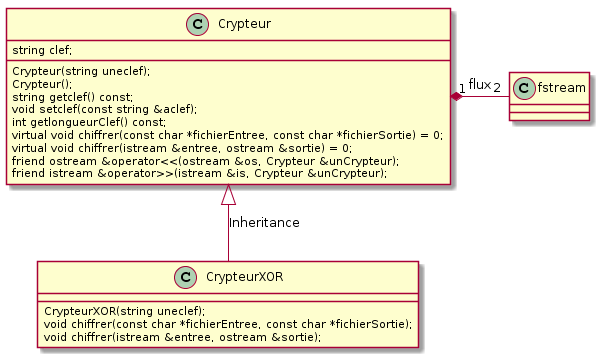
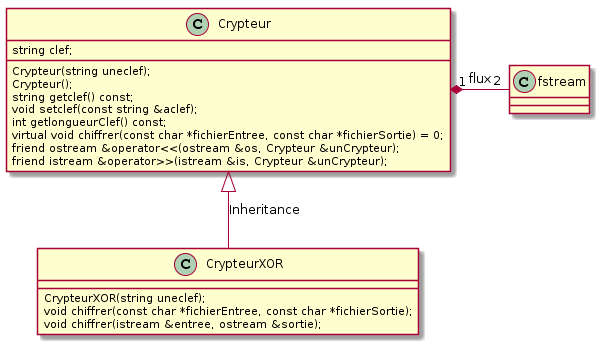
Add files via upload

diff --git a/sujets/tpcpp10.md b/sujets/tpcpp10.md
@@ -2,7 +2,7 @@
 
 ## Chiffrement XOR
 ### Objectif
-Réaliser une classe `Crypteur` répondant à l'algorithme de chiffrement/déchiffrement mettant en oeuvre la méthode du OU Exclusif (en anglais XOR).
+Réaliser une classe `CrypteurXOR` qui hérite de `Crypteur` et répondant à l'algorithme de chiffrement/déchiffrement mettant en oeuvre la méthode du OU Exclusif (en anglais XOR).
 
 ## Pré-requis
 - TP n<sup>o</sup> 7
@@ -10,7 +10,7 @@ Réaliser une classe `Crypteur` répondant à l'algorithme de chiffrement/déchi
 
 ### Travail demandé
 
-On désire créer une classe `Crypteur` déclarée dans le fichier `crypteur.h` et implémentée dans le fichier `crypteur.cxx`. Le diagramme de classes UML est le suivant (`fstream` est une classe déclarée dans `<fstream>` et permet de gérer les fichiers de données) :
+On désire créer une classe `CrypteurXOR` déclarée dans le fichier `xor.h` et implémentée dans le fichier `xor.cxx`. Cette classe héritera de la classe abstraite `Crypteur` (fichiers `crypteur.h` et `crypteur.cxx`). Le diagramme de classes UML est le suivant (`fstream` est une classe déclarée dans `<fstream>` et permet de gérer les fichiers de données) :
 
 ![Diagramme de classes](tp10/classes.png)
 
@@ -22,7 +22,7 @@ La fonction membre `chiffrer` doit répondre au prototype suivant :
 Donner en pseudolangage l'algorithme de la fonction `chiffrer`. Justifier le type des variables choisies.
 
 #### 2. Implémentation de la classe 
-Implémenter en C++ la classe `Crypteur`.
+Implémenter en C++ les classes `Crypteur` et `CrypteurXOR`.
 
 #### 3. Test de la classe
 Valider la classe en chiffrant le fichier [texte.txt](tp10/texte.txt). Le fichier destination sera nommé `texte.$$$`. Éditer le fichier chiffré à l'aide d'un éditeur hexadécimal et vérifier son intégrité par rapport à l'algorithme XOR. Vérifier la fonction inverse en déchiffrant `texte.$$$` en `texte.ok`.
@@ -30,7 +30,7 @@ Valider la classe en chiffrant le fichier [texte.txt](tp10/texte.txt). Le fichie
 
 ### Conditions
 *   Compilateur GNU C++
-*   Système d'exploitation GNU/Linux, Mac OS X ou Ms-Windows
+*   Système d'exploitation Linux, Mac OS X ou Ms-Windows
 
 ### Critères d'évaluation
 *   Qualité et organisation des documents rendus (codes sources, fichier LISEZMOI, etc.)
